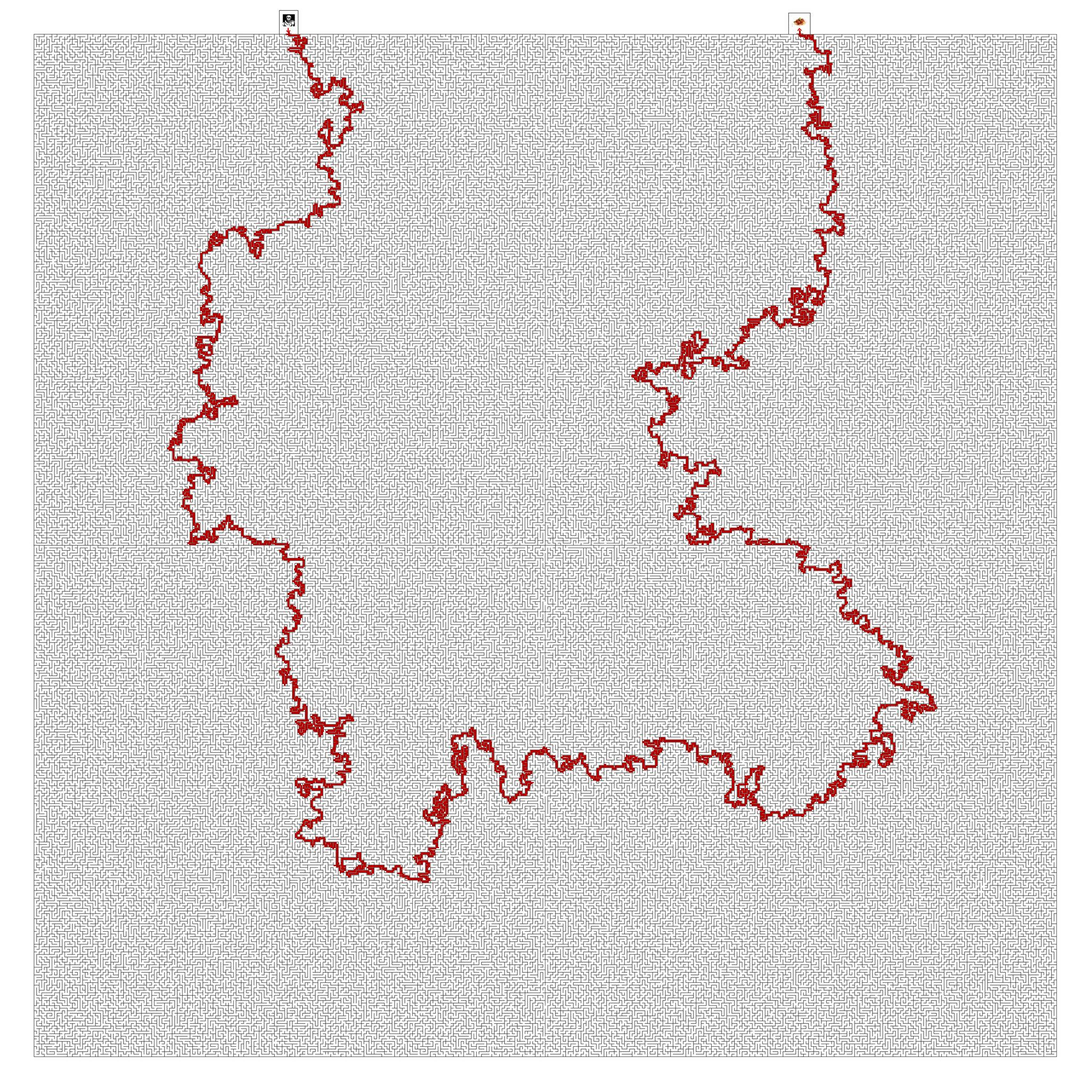
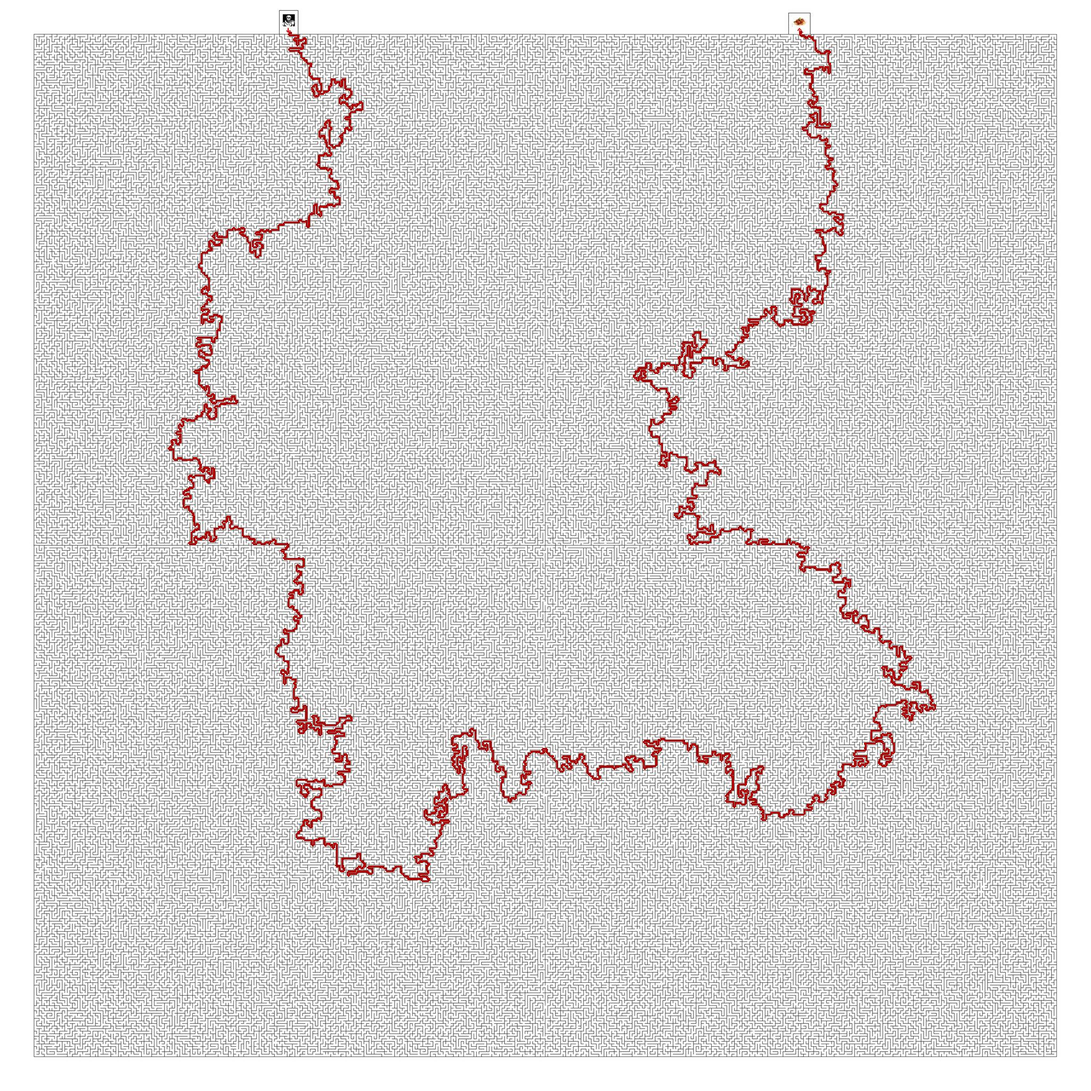
Divids into subchains instead of copying whole chain

diff --git a/main.py b/main.py
@@ -2,15 +2,17 @@
 
 import skimage as ski 
 import matplotlib.pyplot as plt
+import time
+start_time = time.time()
 
 
 imin = './mazes/maze8.jpg'
 imout = './results/result8.jpg'
-init = [100,120] #y,x
-end = [[618,326]] 
+init = [60,545] #y,x
+end = [[60,1505]] 
 COLORING_WIDTH =2
 
-ITER_SHOW = 10000
+ITER_SHOW = 100000
 THRESHOLD = 200
 COLOR_THRESHOLD = 170
 RED = [180,0,0]
@@ -68,73 +70,108 @@ def color_path(chain):
 
 im = ski.io.imread(imin)
 im_or = im.copy()
-steps = [[init]]
-last = steps[0][-1]
-im[last[0],last[1]] = RED
+id_n = 0
+chains = {id_n:{"prev":-1,"next":0,"chain":[init]}}
 
 found = 0
 n = 0
+active_chains = [id_n]
+current = chains[id_n].get("chain")[-1]
+im[current[0],current[1]] = RED
+
+
 while(not found):
-    
-        for i in range(len(steps)-1,-1,-1):
-            #We take the last steps of the current chain
+
+    for i in range(len(active_chains)-1,-1,-1):
+
+        #We take the last chain of the active chains
+        id_i = active_chains[i]
+
+        current = chains[id_i].get("chain")[-1]
+        #We are on the target point, let's print the path
+        if(current in end):
+            print("--- %s seconds ---" % (time.time() - start_time))
+            found = 1
+            print("Found :")
+            prev_id = id_i
+            chain = []
+            while(not prev_id == -1):
+                chain = chains[prev_id].get('chain') + chain 
+                prev_id = chains[prev_id].get('prev')
             
-            current = steps[i][-1]
-            #We are on the target point
-            if(current in end):
-                found = 1
-                print("Found :")
-                chain = steps[i]
-                print("Iterations: "+str(n))
-                print("Chain length: "+str(len(chain))+"\n")
-                im = im_or.copy()
-                color_path(chain)
-                
-                ski.io.imsave(imout,im)
-                plt.ioff()
+            print("Iterations: "+str(n))
+            print("Chain length: "+str(len(chain))+"\n")
+            im = im_or.copy()
+            color_path(chain)
+            print("--- %s seconds ---" % (time.time() - start_time))
+            ski.io.imsave(imout,im)
+            plt.ioff()
+            plt.imshow(im)
+            plt.show()
+            
+            break
+
+        #We are not on the target point
+        else:
+            n=n+1
+            if(n%10000 == 1):
+                print("Iterations: "+str(n-1))
+                print("Current chains: "+str(len(chains))+"\n")
+                print("active chains: "+str(len(active_chains))+"\n")
+            if(n%ITER_SHOW == 1):
                 plt.imshow(im)
+                plt.ion()
                 plt.show()
-                break
+                plt.pause(0.5)
 
-            #We are not on the target point
-            else:
-                n=n+1
-                if(n%10000 == 1):
-                    print("Iterations: "+str(n-1))
-                    print("Current chains: "+str(len(steps))+"\n")
-                if(n%ITER_SHOW == 1):
-                    plt.imshow(im)
-                    plt.ion()
-                    plt.show()
-                    plt.pause(0.5)
-                #We find points around that are white, these are the new directions
-                nexts = find_next(current)
-                #No new point, it's a dead end
-                if(len(nexts)==0):
-                    #We remove this chain, next time we'll try the next one
-                    del steps[i]
-                
-                #Only one new point, we add the new step    
-                if(len(nexts)==1):
-                    steps[i].append(nexts[0])
+            #We find points around that are white, these are the new directions
+            nexts = find_next(current)
+            #No new point, it's a dead end
+            if(len(nexts)==0):
+                #We remove this chain, and also the parent unused ones
+                del active_chains[i]
+                prev_id = id_i
+                next = 0
+                while(not next):
+                    id_i = prev_id
+                    prev_id = chains[id_i].get('prev')
+                    del chains[id_i]
                     
-                #More new directions, we add the new step and create extra chains.
-                if(len(nexts)==2):
-                    new_1 = steps[i].copy()
-                    steps[i].append(nexts[0]) 
-                    new_1.append(nexts[1])
-                    steps.append(new_1)
+                    chains[prev_id]['next'] -=1
+                    next = chains[prev_id]['next']
+                           
 
-                if(len(nexts)>2):
-                    new_1 = steps[i].copy()
-                    new_2 = steps[i].copy() 
-                    steps[i].append(nexts[0]) 
-                    new_1.append(nexts[1])
-                    steps.append(new_1)
-                    new_2.append(nexts[2])
-                    steps.append(new_2)
-        
-       
+            #Only one new point, we add the new step    
+            if(len(nexts)==1):
+                chains[id_i]['chain'].append(nexts[0])
+                
+            #More new directions, we fork in new chains.
+            if(len(nexts)==2):
+
+                chains[id_i]["next"]+=2
+                id_n +=1 
+                chains[id_n] = {"prev":id_i,"next":0,"chain":[nexts[0]]} 
+                active_chains.append(id_n)
+                id_n +=1
+                chains[id_n] = {"prev":id_i,"next":0,"chain":[nexts[1]]} 
+                active_chains.append(id_n)
+                del active_chains[i]
+                
+            if(len(nexts)>2): #Not only 3 to take into account the first iteration
+
+                chains[id_i]["next"]+=3
+                id_n +=1 
+                chains[id_n] = {"prev":id_i,"next":0,"chain":[nexts[0]]} 
+                active_chains.append(id_n)
+                id_n +=1
+                chains[id_n] = {"prev":id_i,"next":0,"chain":[nexts[1]]} 
+                active_chains.append(id_n)
+                id_n +=1
+                chains[id_n] = {"prev":id_i,"next":0,"chain":[nexts[2]]} 
+                active_chains.append(id_n)
+                del active_chains[i]
+               
+
        
         
         
